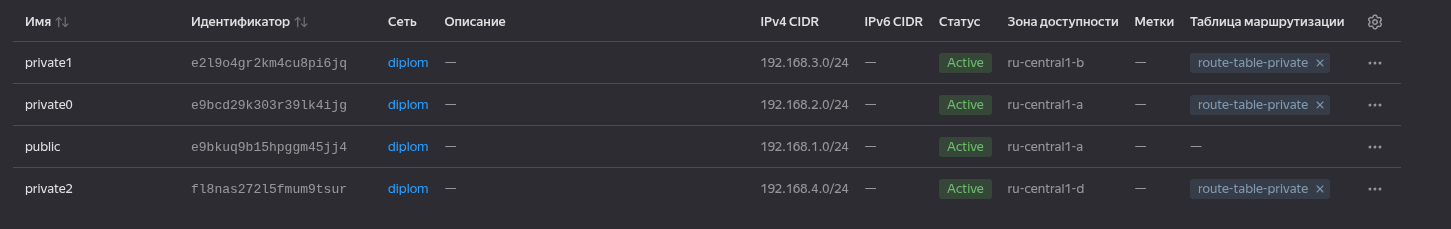
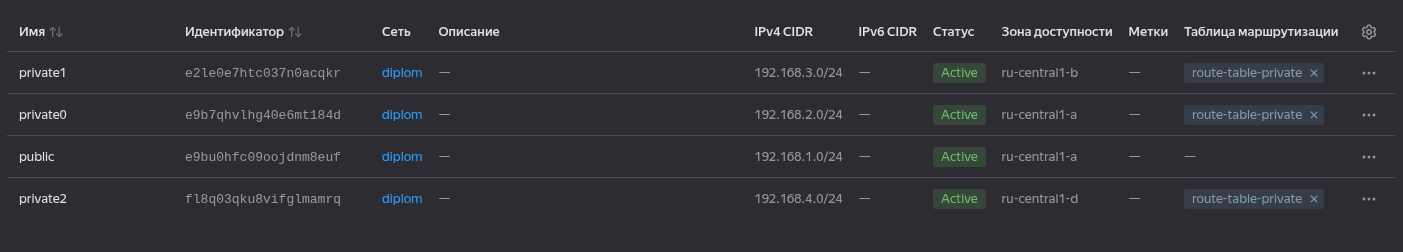
I think done

diff --git a/README.md b/README.md
@@ -11,12 +11,13 @@
   5. Запустить проект коммандой `terraform apply`.
 
 
-После чего в течении 35 минут будет выполнять cloud init, в следствии чего установтся:
-    1. kubespray, развернётся кластер kubernetes;
-    2. nginx-app, тестовое приложение;
-    3. kube-prometheus, grafana + prometheus;
-    4. atlantis, atlantis. Также автоматически добавится webhook для атлантиса;
-    5. gitlab, установка GitLab + автоматическая настройка webhoook и GitHub Actions.
+После чего в течении 35 минут будет выполняться cloud init, в следствии чего установтся:
+
+1. kubespray, развернётся кластер kubernetes;
+2. nginx-app, тестовое приложение;
+3. kube-prometheus, grafana + prometheus;
+4. atlantis, atlantis. Также автоматически добавится webhook для атлантиса;
+5. gitlab, установка GitLab + автоматическая настройка webhoook и GitHub Actions.
 
 Для CI/CD выбран gitlab, который поднимается на отдельной приватной машине. После каждого push-а в репозиторий приложения, автоматически запустится сборка и развёртывание. Для применения конфигурации terraform использован atlantis. После каждого pull request-а будет (если выбрали) применена конфигурация.
 
@@ -32,3 +33,87 @@
 ### 2.
 
     Тест atlantis:
+
+    Для тестирования добавим подсеть в зоне "E".
+
+    Подсети до добавления:
+
+![alter](./images/subnetsBeforePullRequest.png)
+
+    Добавляем, делаем коммит в новую ветку:
+
+![alter](./images/commitChangesToCheckAtlantis.png)    
+
+    Смотрим pull request:
+
+![alter](./images/pullRequestInfo.png)    
+
+    Смотрим `terraform plan` в atlantis (добавится подсеть, но так как за каждой подсетью закреплена приватная машина, то ресурс с тремя(а теперь 5-ю) машинами тоже обновится):
+
+![alter](./images/planInAtlantis.png)    
+
+    Добавляется подсеть, + 2 машины, чтобы количество машин было нечётным для etcd.
+
+    Смотрим процесс применения изменений:
+
+![alter](./images/pullRequestProcessing.png) 
+
+    Результат:
+
+![alter](./images/pullRequestDone.png)
+
+![alter](./images/subnetsAfterPullRequest.png)
+
+### 3.
+
+    Тестируем автоматическую сборку и развёртывание приложения:
+
+    Начальный вариант:
+
+![alter](./images/appBeforeUpdate.png)
+
+    Добавляем строку в приложение и фиксируем изменения:
+
+![alter](./images/appCommitChanges.png)
+
+    Реакция GitHub:
+
+![alter](./images/appGitHubReaction.png)    
+
+    Build and Deploy:
+
+![alter](./images/appBuildGitLabPipeline.png)
+
+![alter](./images/appDeployGitLabPipeline.png)
+
+    Обновляем страницу и видим новое приложение:
+
+![alter](./images/appBeforeUpdate.png)    
+
+[Ссылка](https://hub.docker.com/repository/docker/alexbeznosov/nginx_index_file/general) на автоматически собранный Docker образ приложения.
+
+### 4.
+
+[Репозиторий тестового приложения](https://github.com/StudentIrgups/nginx_index_file.git) nginx + pipeline для автоматической сборки приложения и развёртывания.
+
+### 5. 
+
+Kubernetes кластер поднят через kubespray.
+
+### 6.
+
+    Результаты работы Grafana:
+
+![alter](./images/resultGrafana.png)
+
+![alter](./images/dashboardTraffic.png)
+
+### 7.
+
+    Webhooks and GitHubActions:
+
+![alter](./images/webhookForAtlantisAdded.png.png)    
+
+![alter](./images/webhookForNginxAppAdded.png)
+
+![alter](./images/gitHubActions.png)
